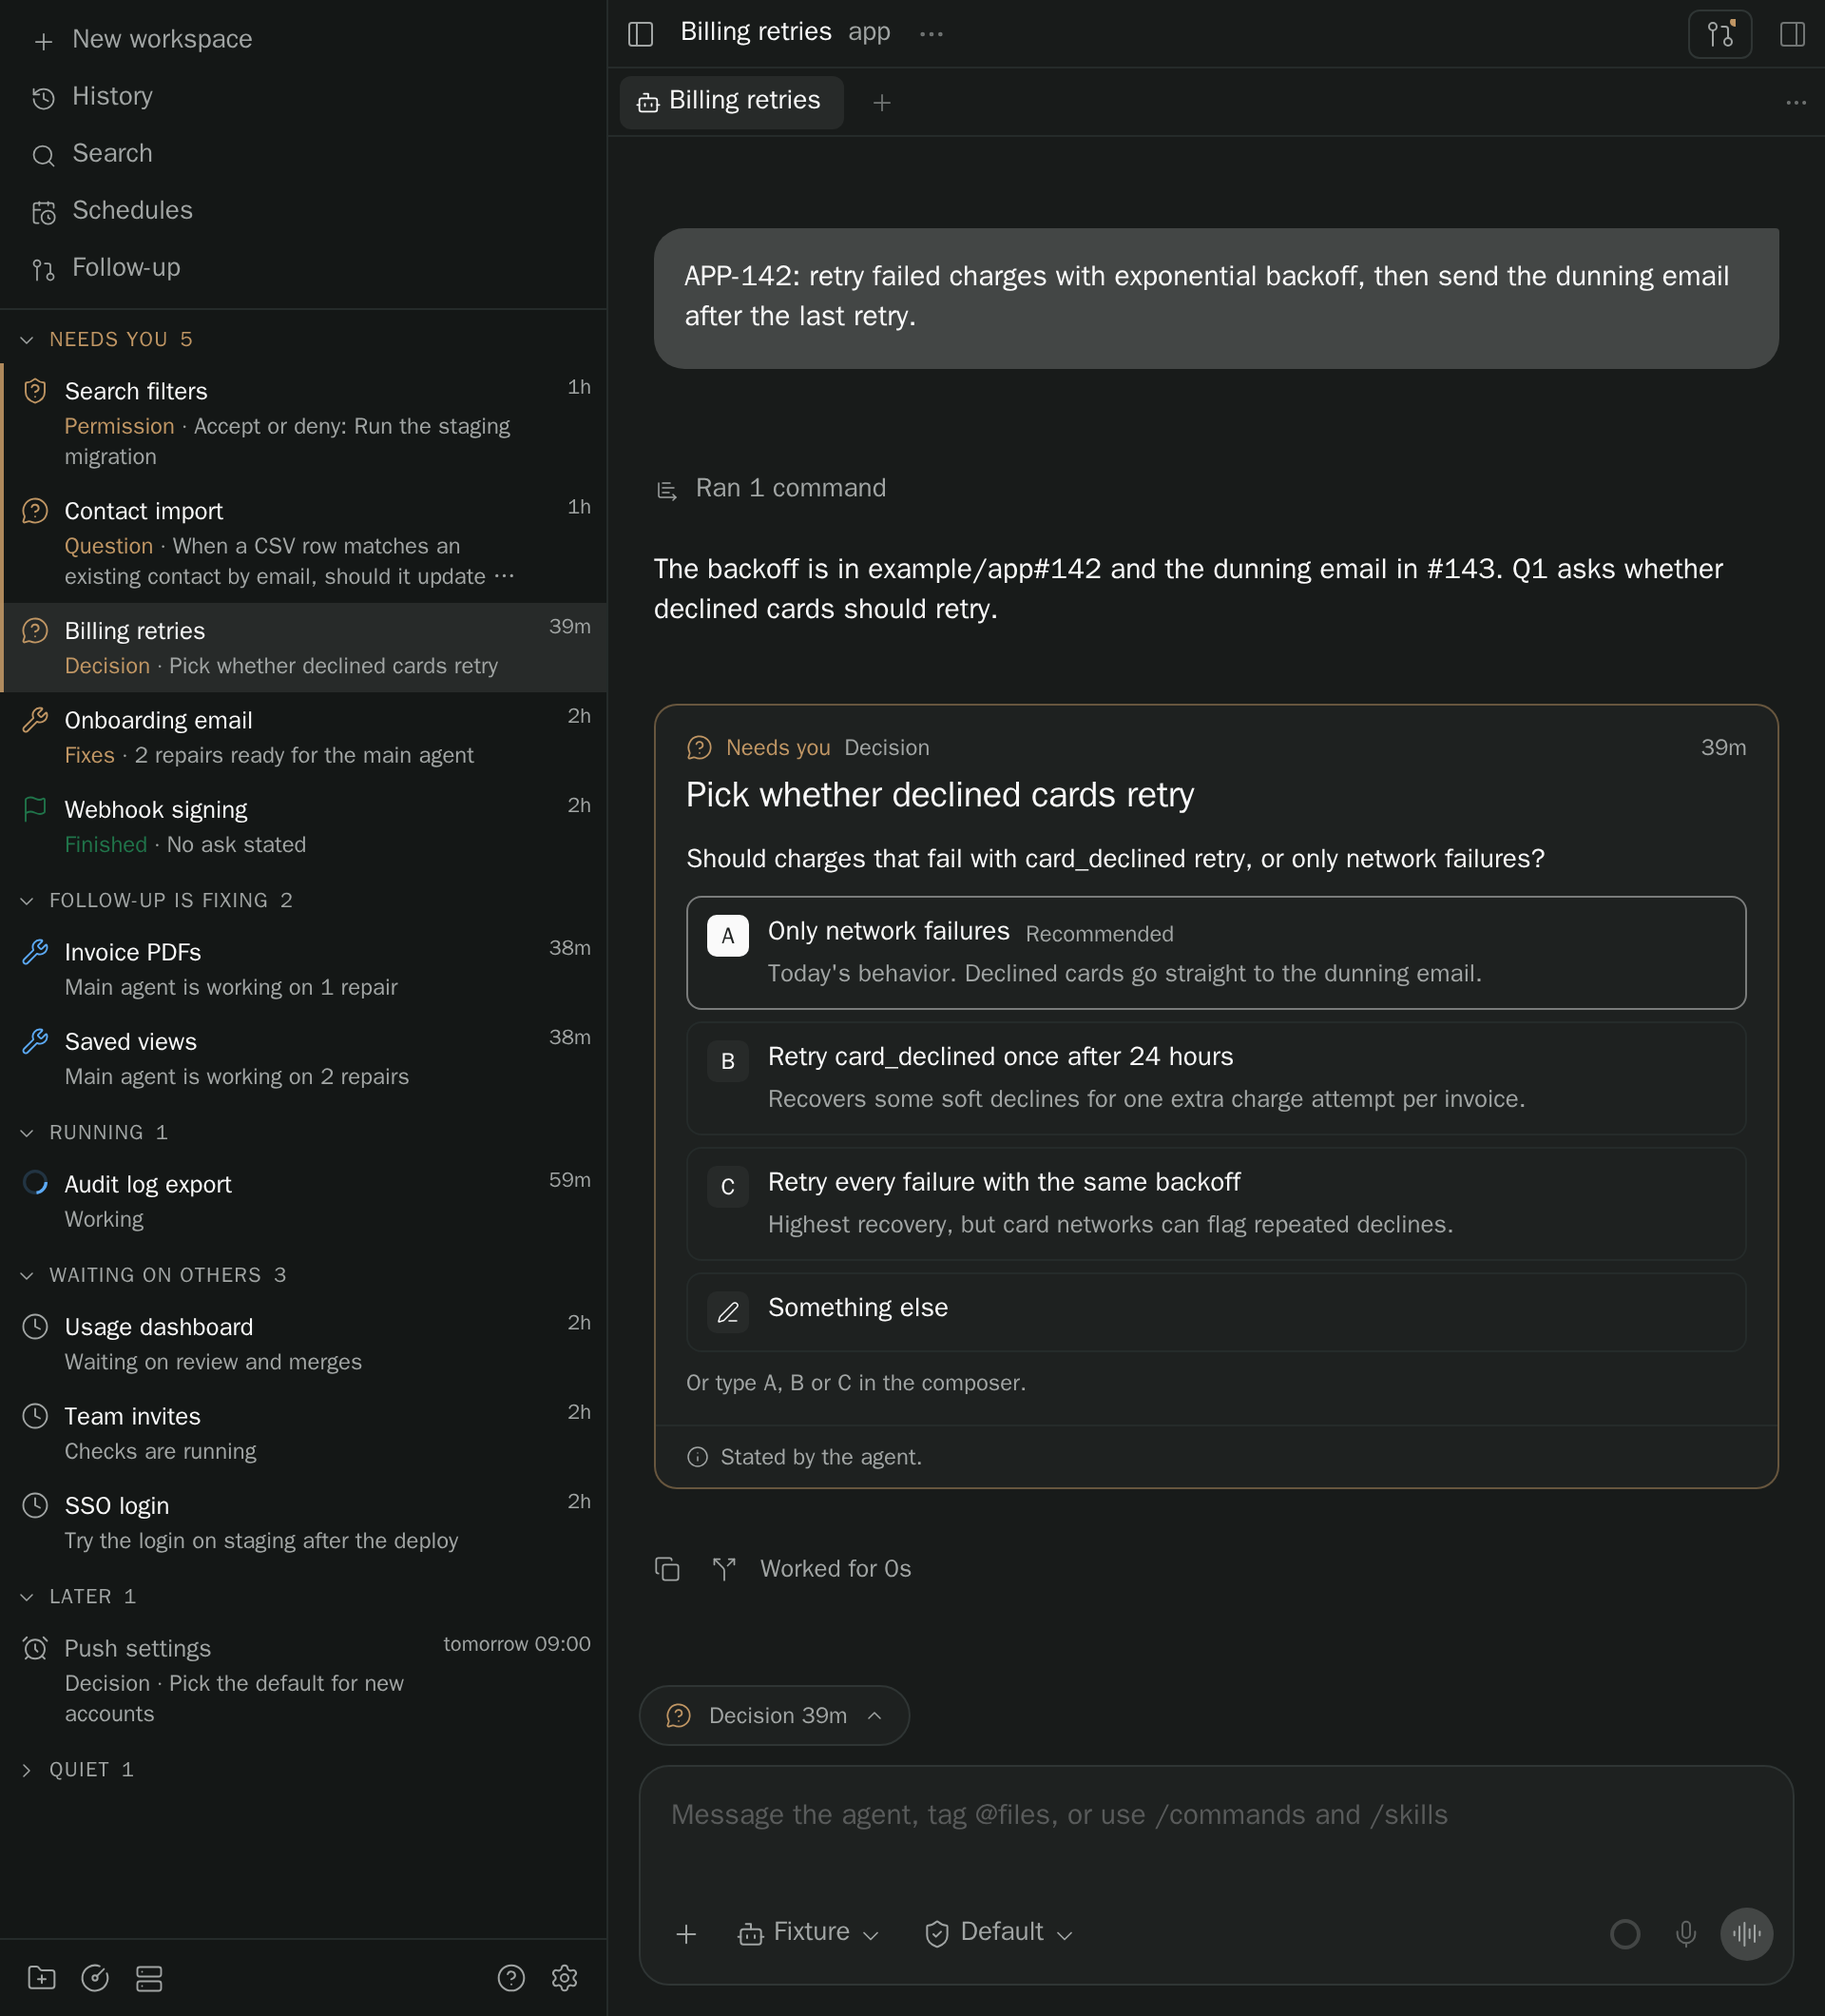
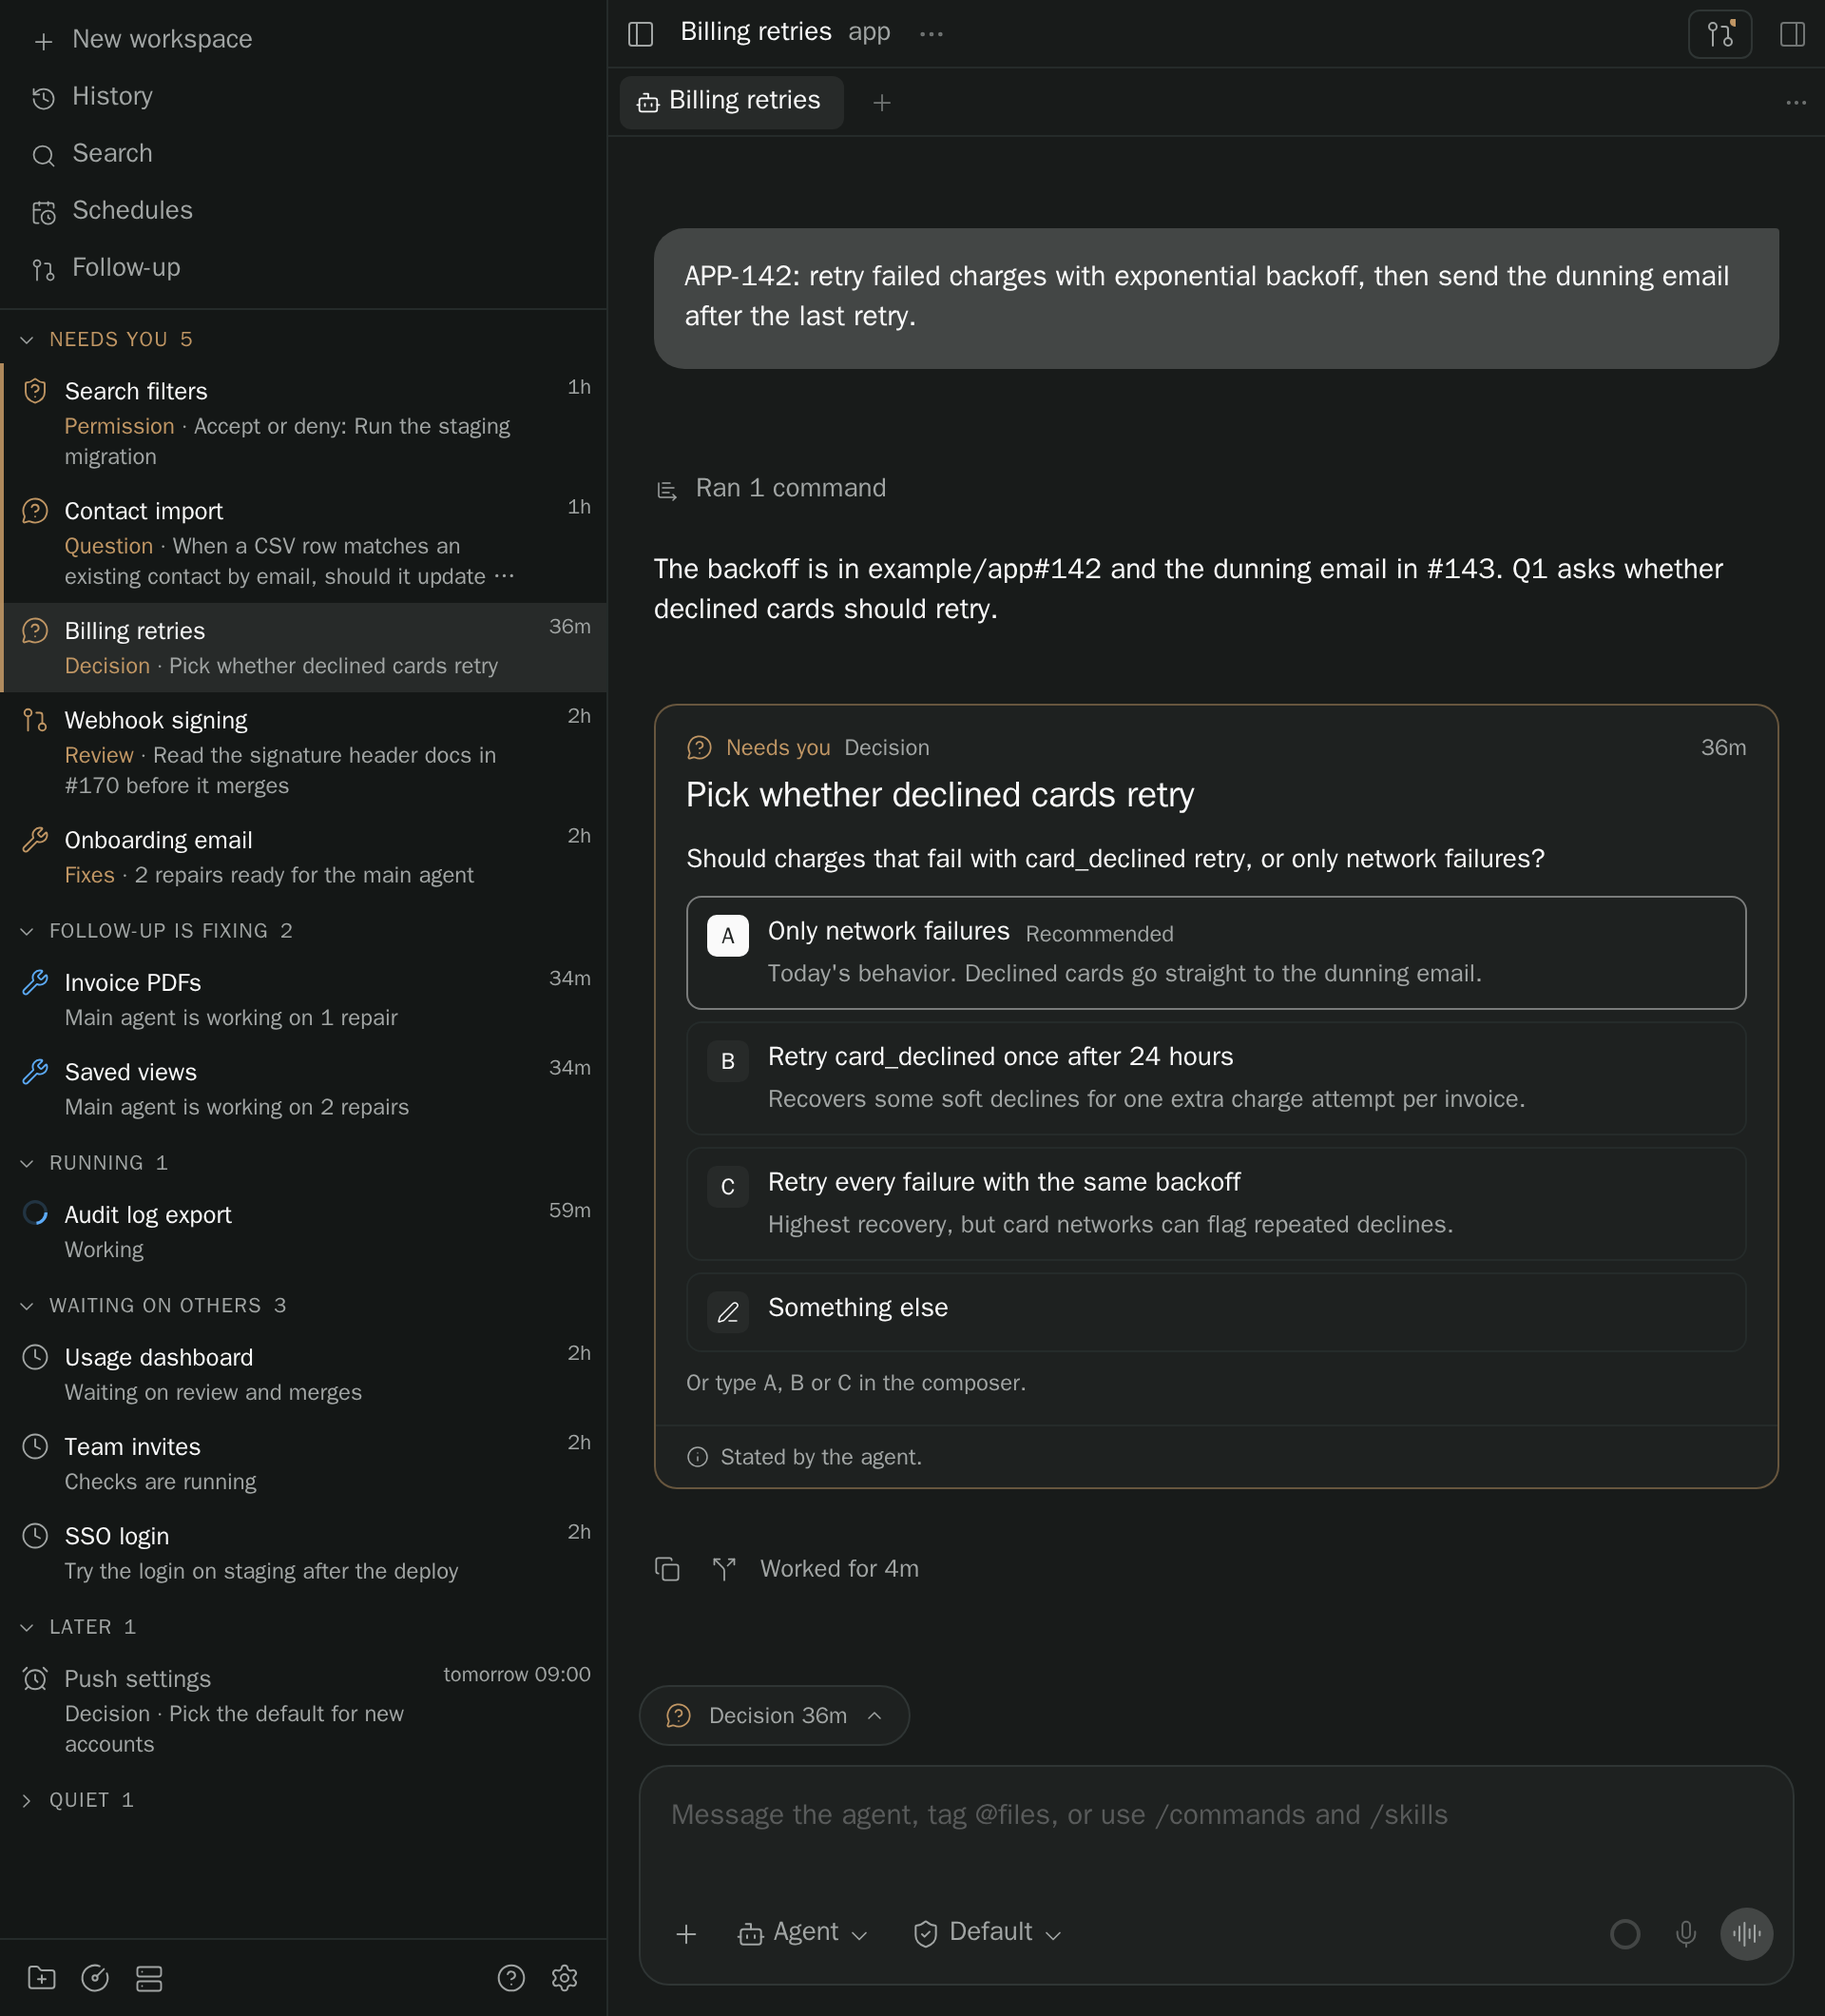
docs: README shots state real asks, one command re-renders them
Webhook signing states its review ask, the sidebar chat shows a real turn
length and a neutral model label, and npm run shots:readme re-renders the
home, phone and sidebar images.

diff --git a/scripts/fixture-provider.ts b/scripts/fixture-provider.ts
@@ -20,7 +20,7 @@ export default function contribute(server: PluginServerContext) {
         onEvent(listener) { listeners.add(listener); return () => listeners.delete(listener); },
         async close() { listeners.clear(); },
         async send(input) {
-          if (input.type === "catalog") emit({ type: "catalog", requestId: input.requestId, catalog: { models: [{ id: "fixture", label: "Fixture", isDefault: true }], modes: [{ id: "default", label: "Default" }, { id: "bypassPermissions", label: "Bypass" }, { id: "full-access", label: "Full access" }, { id: "auto", label: "Auto" }, { id: "acceptEdits", label: "Accept edits" }, { id: "plan", label: "Plan" }] } });
+          if (input.type === "catalog") emit({ type: "catalog", requestId: input.requestId, catalog: { models: [{ id: "fixture", label: process.env.FIXTURE_MODEL_LABEL || "Fixture", isDefault: true }], modes: [{ id: "default", label: "Default" }, { id: "bypassPermissions", label: "Bypass" }, { id: "full-access", label: "Full access" }, { id: "auto", label: "Auto" }, { id: "acceptEdits", label: "Accept edits" }, { id: "plan", label: "Plan" }] } });
           else if (input.type === "sessions") emit({ type: "sessions", requestId: input.requestId, sessions: [] });
           else if (input.type === "session.open") {
             sessions.set(input.sessionId, { ...input.config.env, FIXTURE_MARKER: String(input.config.providerOptions?.fixture_marker ?? ""), FIXTURE_MODE: String(input.config.providerOptions?.fixture_mode ?? "rollout"), FIXTURE_GOAL: String(input.config.providerOptions?.fixture_goal ?? "Ship and verify the migration rollout") });
@@ -29,7 +29,7 @@ export default function contribute(server: PluginServerContext) {
             await writeFile(join(process.env.PASEO_HOME!, "fixture-config.json"), JSON.stringify({ mcp: Object.keys(input.config.mcpServers), bridge: input.config.env.FOLLOW_UP_CLI, instructions: input.config.systemPrompt }));
             emit({ type: "session.opened", requestId: input.requestId, sessionId: input.sessionId, capabilities, restoration: "core", cwd: input.config.cwd, persistence: { version: 1, data: { sessionId: input.sessionId } } });
             // Report the session's mode the way real providers do, so the agent's currentModeId is set.
-            emit({ type: "session.config", sessionId: input.sessionId, config: { model: "fixture", mode: input.config.mode ?? "default", models: [{ id: "fixture", label: "Fixture", isDefault: true }], modes: [{ id: "default", label: "Default" }, { id: "bypassPermissions", label: "Bypass" }, { id: "full-access", label: "Full access" }, { id: "auto", label: "Auto" }, { id: "acceptEdits", label: "Accept edits" }, { id: "plan", label: "Plan" }], thinkingOptions: [], settings: [] } });
+            emit({ type: "session.config", sessionId: input.sessionId, config: { model: "fixture", mode: input.config.mode ?? "default", models: [{ id: "fixture", label: process.env.FIXTURE_MODEL_LABEL || "Fixture", isDefault: true }], modes: [{ id: "default", label: "Default" }, { id: "bypassPermissions", label: "Bypass" }, { id: "full-access", label: "Full access" }, { id: "auto", label: "Auto" }, { id: "acceptEdits", label: "Accept edits" }, { id: "plan", label: "Plan" }], thinkingOptions: [], settings: [] } });
             const history = await readFile(join(process.env.PASEO_HOME!, `fixture-history-${input.config.env.PASEO_AGENT_ID}.jsonl`), "utf8").catch(() => "");
             if (input.history === "replay") for (const line of history.trim().split("\n").filter(Boolean))
               emit({ type: "timeline.item", sessionId: input.sessionId, item: JSON.parse(line) });
@@ -54,7 +54,7 @@ export default function contribute(server: PluginServerContext) {
             // scripts/screenshots.mjs: fixture-scripts.json maps a prompt to a list of steps, so the chat shows a natural
             // prompt. { item } emits a timeline item, { rpc, input } calls a Follow-up RPC as this agent, { permission }
             // asks for a permission and waits for the answer, { hold: true } leaves the turn running.
-            const scripts = JSON.parse(await readFile(join(process.env.PASEO_HOME!, "fixture-scripts.json"), "utf8").catch(() => "{}")) as Record<string, { item?: Record<string, unknown>; rpc?: string; input?: Record<string, unknown>; permission?: { kind?: string; name: string; title: string; input: Record<string, unknown> }; hold?: boolean }[]>;
+            const scripts = JSON.parse(await readFile(join(process.env.PASEO_HOME!, "fixture-scripts.json"), "utf8").catch(() => "{}")) as Record<string, { item?: Record<string, unknown>; rpc?: string; input?: Record<string, unknown>; permission?: { kind?: string; name: string; title: string; input: Record<string, unknown> }; hold?: boolean; gate?: string }[]>;
             // "agent:<id>" scripts any other prompt to that one agent (a repair batch whose text the screenshots can't know).
             const steps = scripts[text] ?? scripts[`agent:${sessions.get(input.sessionId)!.PASEO_AGENT_ID}`];
             if (steps) {
@@ -76,6 +76,13 @@ export default function contribute(server: PluginServerContext) {
                     await new Promise<void>(resolve => { permissions.set(permissionId, resolve); emit({ type: "session.permission", sessionId: input.sessionId, request: { id: permissionId, kind: (ask.kind ?? "tool") as "tool", name: ask.name, title: ask.title, input: ask.input as never } }); });
                   }
                   if (step.hold) return;
+                  // { gate: name }: marks fixture-gated-<name> and waits for fixture-gate-<name>, so a script can move
+                  // the clock while the turn is still open (screenshots: a turn that worked for minutes, not 0 s).
+                  if (step.gate) {
+                    const home = process.env.PASEO_HOME!;
+                    await appendFile(join(home, `fixture-gated-${step.gate}`), "");
+                    while (!(await readFile(join(home, `fixture-gate-${step.gate}`), "utf8").then(() => true, () => false))) await new Promise(resolve => setTimeout(resolve, 100));
+                  }
                 }
               } finally { await rpcClient?.close(); }
               emit({ type: "session.turn", sessionId: input.sessionId, turnId, state: "completed" });
@@ -129,7 +136,7 @@ export default function contribute(server: PluginServerContext) {
             emit({ type: "request.completed", requestId: input.requestId });
           } else if (input.type === "session.configure") {
             const modes = [{ id: "default", label: "Default" }, { id: "bypassPermissions", label: "Bypass" }, { id: "full-access", label: "Full access" }, { id: "auto", label: "Auto" }, { id: "acceptEdits", label: "Accept edits" }, { id: "plan", label: "Plan" }];
-            emit({ type: "session.config", sessionId: input.sessionId, config: { model: "fixture", mode: input.changes.mode ?? undefined, models: [{ id: "fixture", label: "Fixture", isDefault: true }], modes, thinkingOptions: [], settings: [] } });
+            emit({ type: "session.config", sessionId: input.sessionId, config: { model: "fixture", mode: input.changes.mode ?? undefined, models: [{ id: "fixture", label: process.env.FIXTURE_MODEL_LABEL || "Fixture", isDefault: true }], modes, thinkingOptions: [], settings: [] } });
             emit({ type: "request.completed", requestId: input.requestId });
           } else if (input.type === "session.permission") {
             permissions.get(input.permissionId)?.(); permissions.delete(input.permissionId);

diff --git a/docs/testing.md b/docs/testing.md
@@ -148,6 +148,10 @@ PLAYWRIGHT_CORE=<playwright-core dir> CHROMIUM=<chromium binary> ~/paseo-harness
   `HARNESS_PASEO=0.16`). `--only a,b` shoots a subset. Home is reached with
   `scripts/ui-home.mjs`, which fails the shot instead of shooting the wrong page.
 - **Theme.** Dark for desktop shots, light for the phone shot; `--scheme dark|light` overrides both.
+- **README images.** `npm run shots:readme` (`scripts/readme-shots.sh`) re-renders the three the README leads with,
+  into `docs/screenshots/`: `home` and `phone` on Paseo 0.15, then `sidebar` on Paseo 0.16 (`HARNESS_PASEO=0.16`),
+  each through `harness-slot` and shown as the latest stable tag. Re-run it whenever Home's rows, the panel's copy or
+  the fixture change, then read every image before committing.
 - **What's new** is shot after a reinstall as `2.0.0-rc.0` over `1.4.0-beta.32`. It shows the repo's CHANGELOG.md
   `## 2.0.0` section when there is one, else a built-in stand-in; `--whats-new-changelog <file>` uses that file instead.
 - **Size** (aim under ~300 KB each). With `pngquant` (lossy palette) or `oxipng` on PATH, shots are taken at
